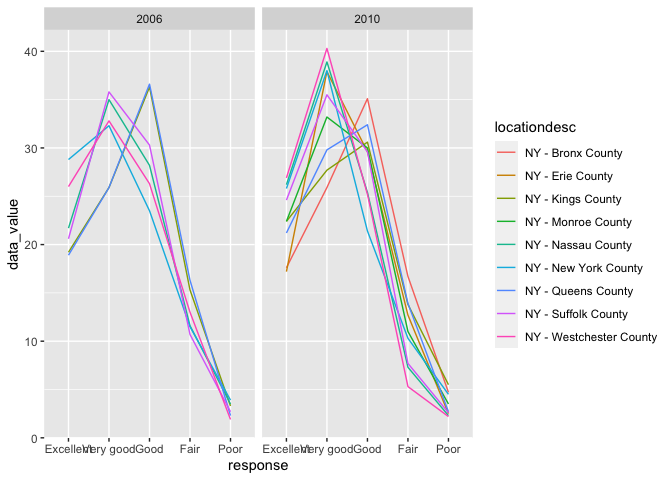
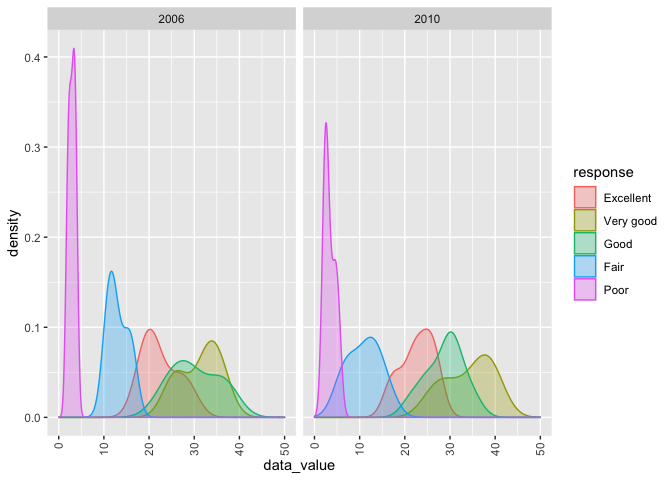
resketch the graph of the third question in Q2.

diff --git a/qc2307_hw3.md b/qc2307_hw3.md
@@ -438,8 +438,10 @@ brfss_Poor_2_Excellent =
   filter(locationabbr == "NY", (year == "2006" | year == "2010")) %>%
   drop_na(response) %>%
   group_by(locationdesc)
-two_panel_06_10 = ggplot(brfss_Poor_2_Excellent, aes(x = response, y = data_value, group = locationdesc, color = locationdesc)) +
-  geom_line() +
+two_panel_06_10 = ggplot(brfss_Poor_2_Excellent, aes(x = data_value, group = response, color = response, fill = response)) +
+  geom_density(alpha = 0.3) +
+  theme(axis.text.x = element_text(angle = 90, vjust = 0.5, hjust = 1)) +
+  scale_x_continuous(limits = c(0, 50)) +
   facet_grid(. ~ year)
 two_panel_06_10
 ```
